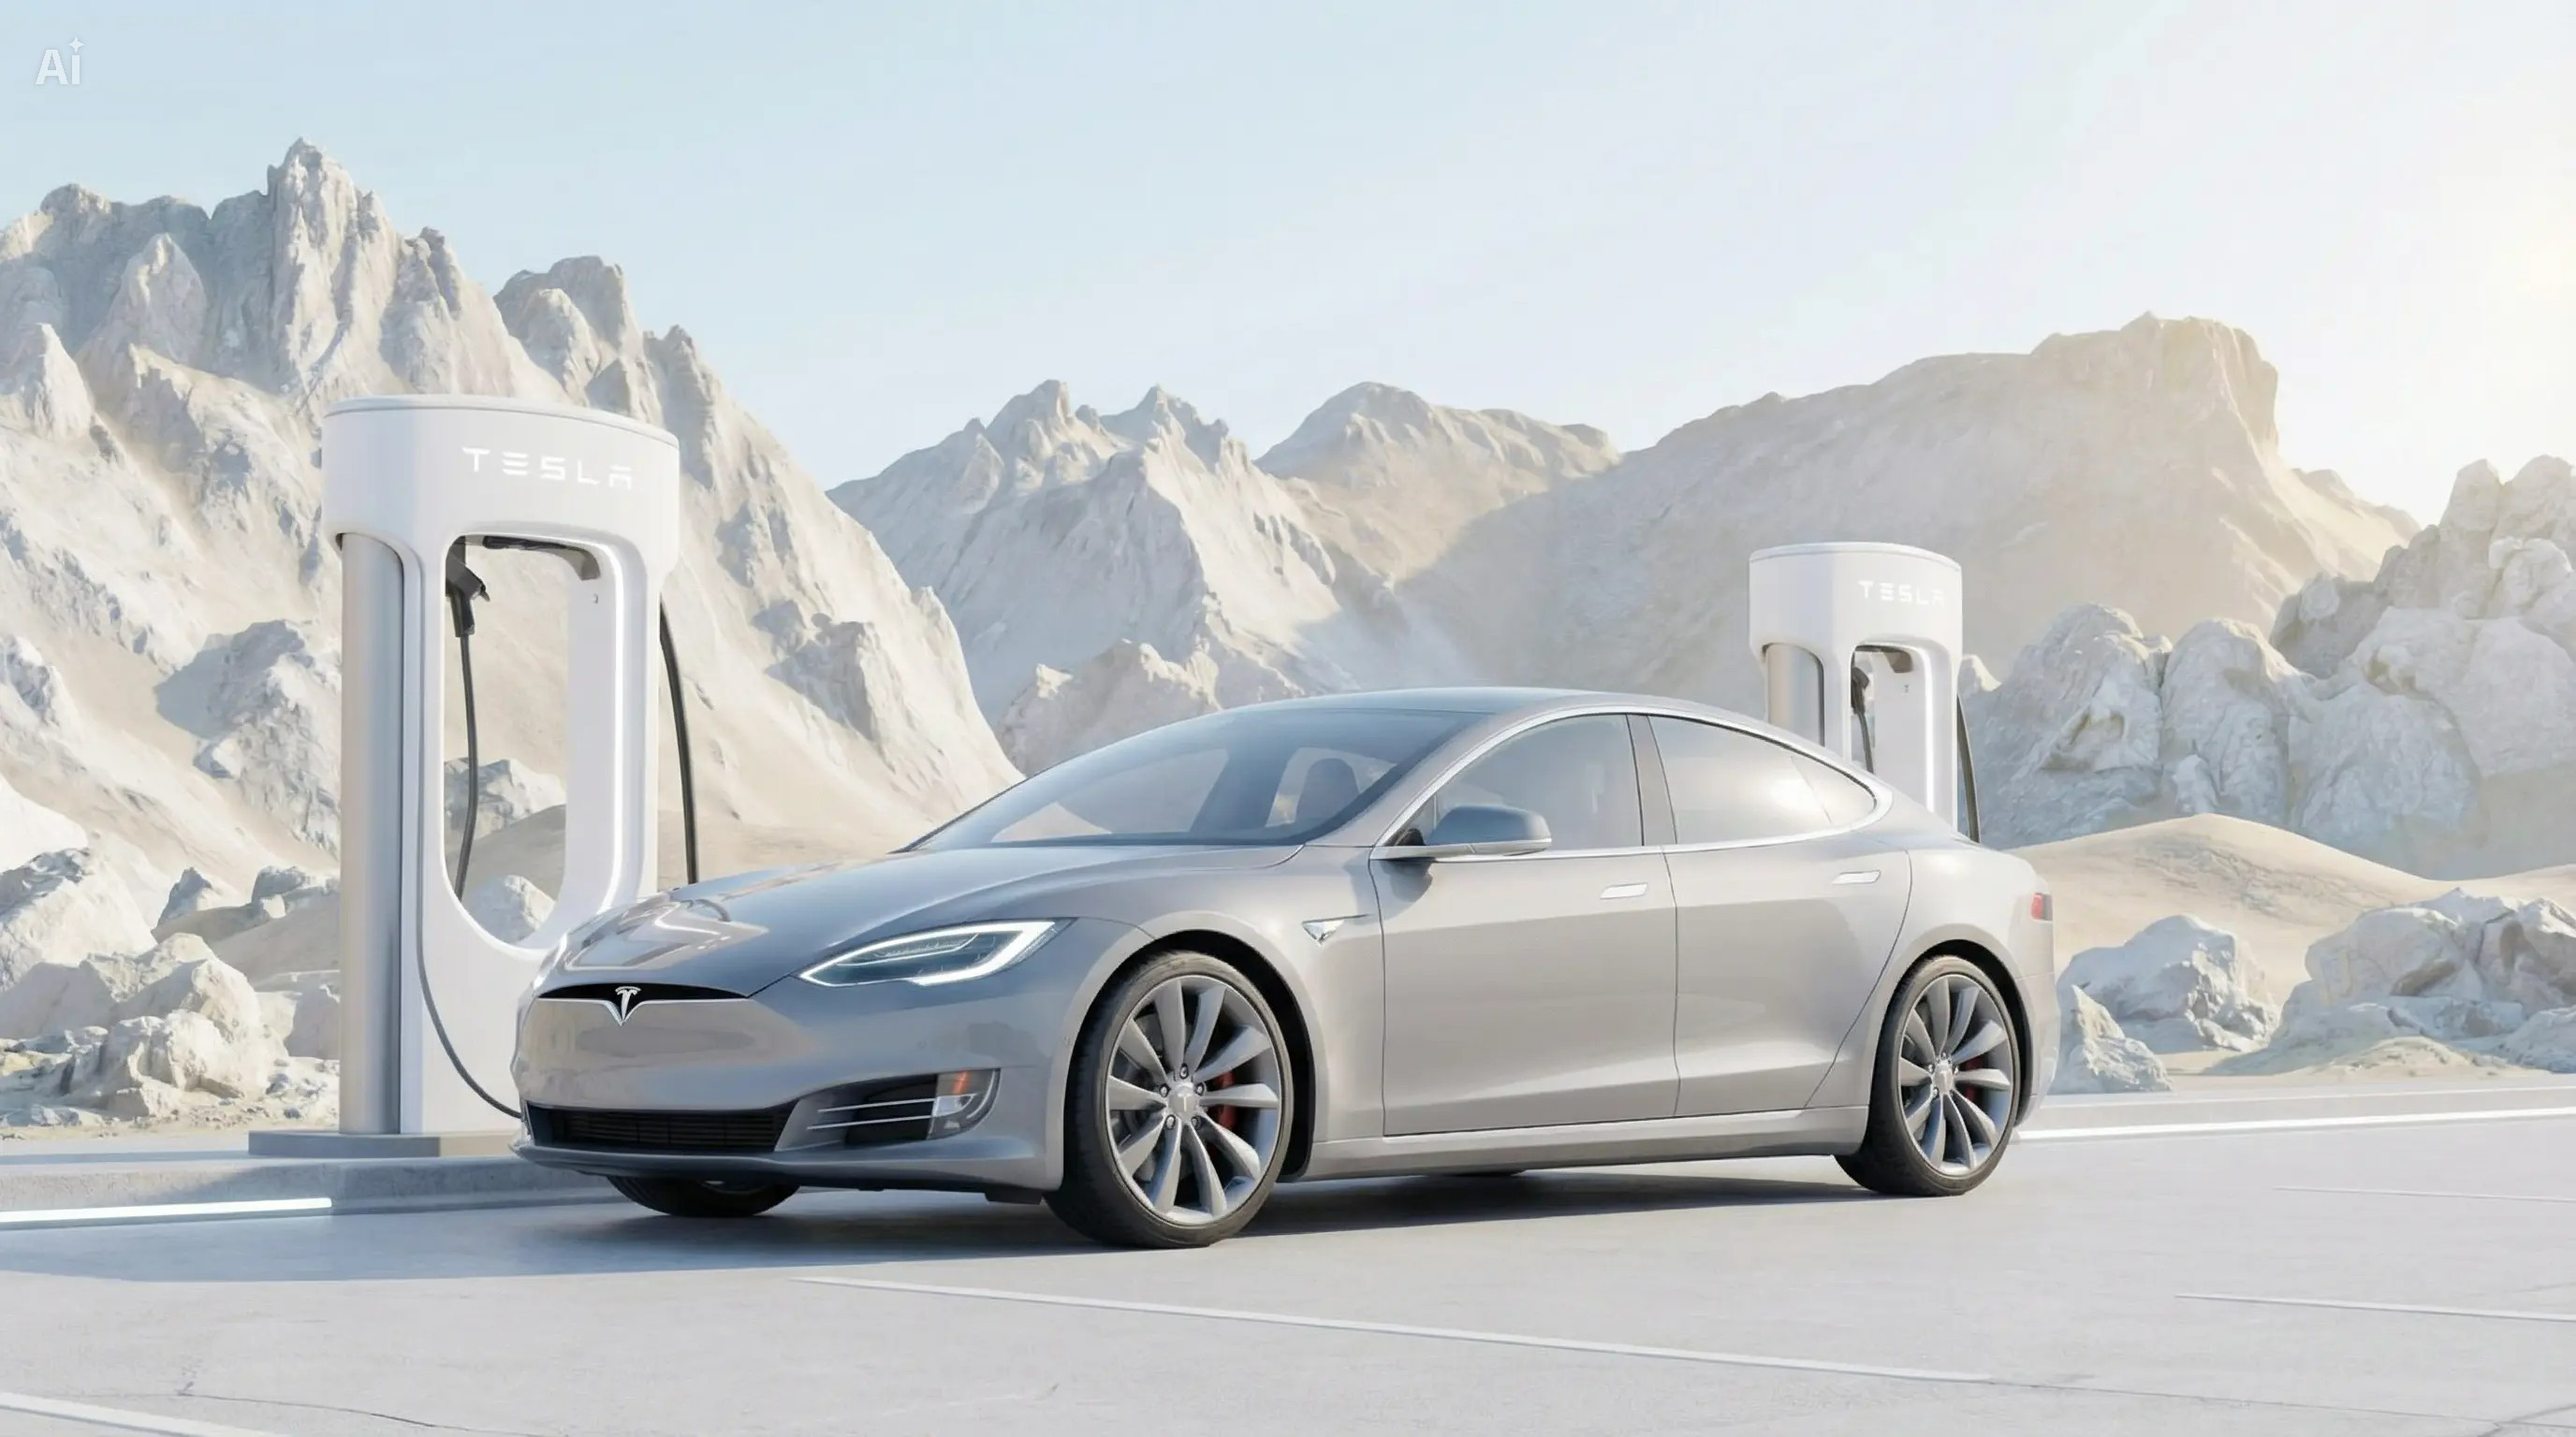
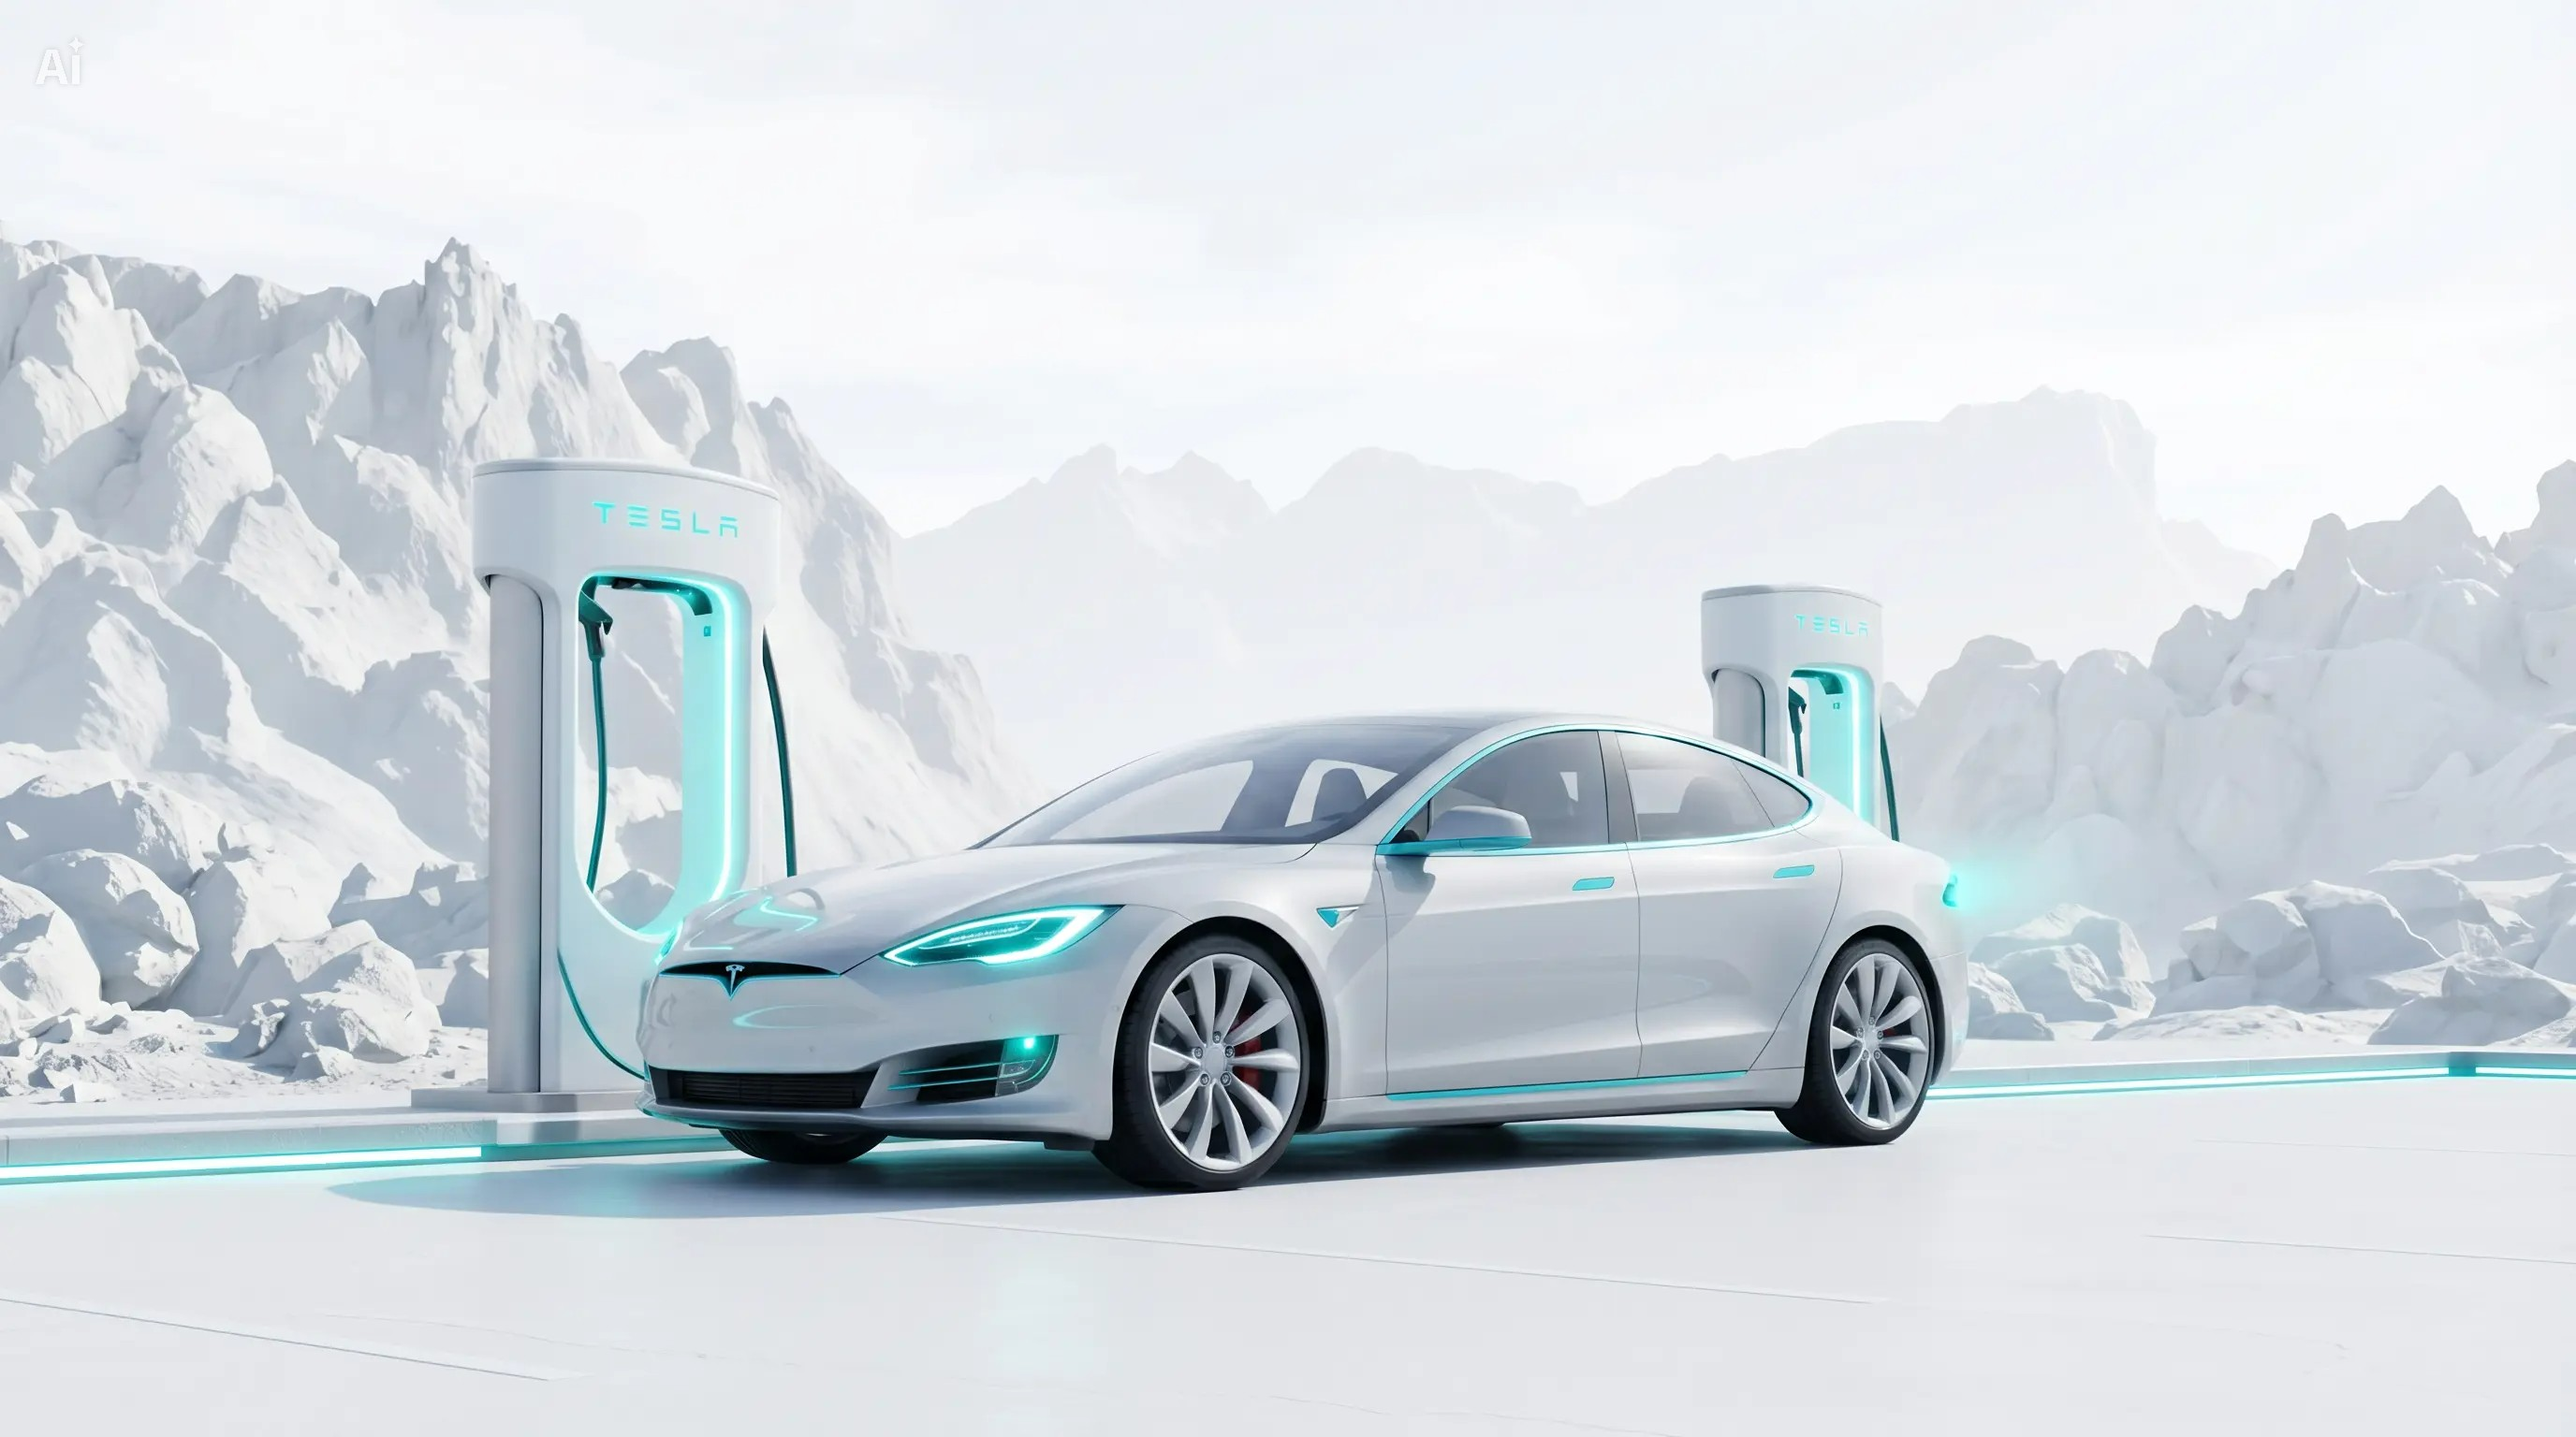
feat: implement database connection, auth controller, and global CSS styles with Tailwind configuration

diff --git a/frontend/src/components/home/Navbar.js b/frontend/src/components/home/Navbar.js
@@ -1,16 +1,32 @@
 import React, { useState, useEffect } from "react";
 import { motion, AnimatePresence } from "framer-motion";
 import { Button } from "../ui/button.js";
-import { Zap, Menu, X, BatteryCharging } from "lucide-react";
+import { Sun, Moon, Zap, Menu, X, BatteryCharging } from "lucide-react";
+import { getStoredTheme, applyTheme } from "../../utils/theme.js";
 
 const Navbar = ({ onReserve }) => {
   const [scrolled, setScrolled] = useState(false);
   const [mobileOpen, setMobileOpen] = useState(false);
+  const [theme, setTheme] = useState(getStoredTheme());
+
+  const toggleTheme = () => {
+    const newTheme = theme === "light" ? "dark" : "light";
+    setTheme(newTheme);
+    applyTheme(newTheme);
+  };
 
   useEffect(() => {
     const handleScroll = () => setScrolled(window.scrollY > 40);
+    
+    // Sync initial state and listen for changes
+    const syncTheme = () => setTheme(getStoredTheme());
+    window.addEventListener("theme-changed", (e) => setTheme(e.detail));
+    
     window.addEventListener("scroll", handleScroll);
-    return () => window.removeEventListener("scroll", handleScroll);
+    return () => {
+      window.removeEventListener("scroll", handleScroll);
+      window.removeEventListener("theme-changed", syncTheme);
+    };
   }, []);
 
   return (
@@ -78,6 +94,31 @@ const Navbar = ({ onReserve }) => {
             <Zap className="w-4 h-4 mr-2" />
             <span className="tracking-widest uppercase text-sm font-semibold">Reserve Now</span>
           </Button>
+
+          {/* Theme Toggle Button */}
+          <motion.button
+            whileHover={{ scale: 1.05 }}
+            whileTap={{ scale: 0.95 }}
+            onClick={toggleTheme}
+            className="relative flex items-center justify-center h-10 w-10 rounded-xl border border-white/10 bg-white/5 backdrop-blur-md hover:bg-white/10 transition-colors shadow-lg overflow-hidden group"
+          >
+            <div className="absolute inset-0 bg-gradient-to-br from-primary/10 to-transparent opacity-0 group-hover:opacity-100 transition-opacity" />
+            <AnimatePresence mode="wait">
+              <motion.div
+                key={theme}
+                initial={{ y: 20, opacity: 0, rotate: 45 }}
+                animate={{ y: 0, opacity: 1, rotate: 0 }}
+                exit={{ y: -20, opacity: 0, rotate: -45 }}
+                transition={{ duration: 0.3, ease: "anticipate" }}
+              >
+                {theme === "light" ? (
+                  <Moon className="h-5 w-5 text-foreground/80" />
+                ) : (
+                  <Sun className="h-5 w-5 text-primary" />
+                )}
+              </motion.div>
+            </AnimatePresence>
+          </motion.button>
         </div>
 
         {/* Mobile menu toggle */}
@@ -129,6 +170,26 @@ const Navbar = ({ onReserve }) => {
             >
               <Zap className="w-4 h-4 mr-2" />
               Reserve Now
+            </Button>
+
+            <Button
+              variant="outline"
+              className="w-full h-12 flex items-center justify-center gap-3 bg-white/5 border-white/10 backdrop-blur-md"
+              onClick={() => {
+                toggleTheme();
+              }}
+            >
+              {theme === "light" ? (
+                <>
+                  <Moon className="h-5 w-5" />
+                  <span className="tracking-widest uppercase text-sm font-semibold">Dark Mode</span>
+                </>
+              ) : (
+                <>
+                  <Sun className="h-5 w-5 text-primary" />
+                  <span className="tracking-widest uppercase text-sm font-semibold">Light Mode</span>
+                </>
+              )}
             </Button>
           </motion.div>
         )}

diff --git a/backend/controllers/authController.js b/backend/controllers/authController.js
@@ -453,7 +453,10 @@ exports.verifyOTP = async (req, res) => {
     const model = vehicle?.model || null;
 
     const result = await pool.query(
-      'SELECT *, EXTRACT(EPOCH FROM (LOCALTIMESTAMP - created_at))/60 AS db_diff_minutes FROM otps WHERE vehicle_id=$1 AND code=$2 AND is_used=false AND expired=false',
+      `SELECT *, 
+       (created_at > NOW() - INTERVAL '5 minutes') as is_fresh
+       FROM otps 
+       WHERE vehicle_id=$1 AND code=$2 AND is_used=false AND expired=false`,
       [vehicleId, code]
     );
 
@@ -462,11 +465,10 @@ exports.verifyOTP = async (req, res) => {
     }
 
     const otp = result.rows[0];
-    const diffMinutes = parseFloat(otp.db_diff_minutes);
 
-    if (diffMinutes > 5) {
+    if (!otp.is_fresh) {
       await pool.query('DELETE FROM otps WHERE id=$1', [otp.id]);
-      return res.status(400).json({ message: `OTP expired (${Math.round(diffMinutes)} minutes ago)` });
+      return res.status(400).json({ message: 'OTP expired' });
     }
 
     await pool.query('DELETE FROM otps WHERE id=$1', [otp.id]);
@@ -487,35 +489,36 @@ exports.verifyForeignOTP = async (req, res) => {
   let targetVehicleId = vehicleId;
 
   try {
-    let otpResult;
-    if (vehicleId) {
-      otpResult = await pool.query(
-        'SELECT *, EXTRACT(EPOCH FROM (LOCALTIMESTAMP - created_at))/60 AS db_diff_minutes FROM otps WHERE vehicle_id=$1 AND code=$2 AND is_used=false AND expired=false',
-        [vehicleId, code]
+    if (!targetVehicleId) {
+      if (!email) {
+        return res.status(400).json({ message: 'vehicleId or email is required' });
+      }
+
+      const emailRes = await pool.query(
+        'SELECT vehicle_id FROM emails WHERE address=$1 LIMIT 1',
+        [email]
       );
-    } else if (email) {
-      // Find latest valid OTP for ANY vehicle associated with this email
-      otpResult = await pool.query(
-        `SELECT o.*, EXTRACT(EPOCH FROM (LOCALTIMESTAMP - o.created_at))/60 AS db_diff_minutes 
-         FROM otps o 
-         JOIN emails e ON o.vehicle_id = e.vehicle_id 
-         WHERE e.address = $1 AND o.code = $2 AND o.is_used = false AND o.expired = false
-         ORDER BY o.created_at DESC LIMIT 1`,
-        [email, code]
-      );
-    } else {
-      return res.status(400).json({ message: 'vehicleId or email is required' });
+      if (emailRes.rows.length === 0) {
+        return res.status(404).json({ message: 'Vehicle not found for the given email' });
+      }
+      targetVehicleId = emailRes.rows[0].vehicle_id;
     }
+
+    const otpResult = await pool.query(
+      `SELECT *, 
+       (created_at > NOW() - INTERVAL '5 minutes') as is_fresh
+       FROM otps 
+       WHERE vehicle_id=$1 AND code=$2 AND is_used=false AND expired=false`,
+      [targetVehicleId, code]
+    );
 
     if (otpResult.rows.length === 0) {
       return res.status(400).json({ message: 'Invalid or already used OTP' });
     }
 
     const otp = otpResult.rows[0];
-    targetVehicleId = otp.vehicle_id; // Update targetVehicleId from the found OTP
-    const diffMinutes = parseFloat(otp.db_diff_minutes);
 
-    if (diffMinutes > 5) {
+    if (!otp.is_fresh) {
       await pool.query('DELETE FROM otps WHERE id=$1', [otp.id]);
 
       // Delete temporary foreign vehicle if OTP expired and it is not yet verified
@@ -524,7 +527,7 @@ exports.verifyForeignOTP = async (req, res) => {
         await pool.query('DELETE FROM vehicles WHERE id=$1', [targetVehicleId]);
       }
 
-      return res.status(400).json({ message: `OTP expired (${Math.round(diffMinutes)} minutes ago)` });
+      return res.status(400).json({ message: 'OTP expired' });
     }
 
     await pool.query('UPDATE otps SET is_used=true WHERE id=$1', [otp.id]);

diff --git a/frontend/src/components/home/HeroSection.js b/frontend/src/components/home/HeroSection.js
@@ -37,14 +37,27 @@ const HeroSection = ({ onReserve }) => {
             <img
             src={theme === 'light' ? lightHeroImage : darkHeroImage}
             alt="Tesla charging at a futuristic station"
-            className="h-full w-full object-cover"
+            className={`h-full w-full object-cover transition-all duration-700 ${
+                theme === "light" 
+                ? "brightness-[0.95] contrast-[1.1] saturate-[1.1] mix-blend-normal" 
+                : "brightness-75 contrast-[1.1] saturate-[1.1]"
+            }`}
             width={1920}
             height={1080}
             />
         </motion.div>
-        <div className="absolute inset-0 bg-[radial-gradient(circle_at_center,rgba(0,255,240,0.1)_0%,rgba(0,0,0,0.4)_40%,rgba(0,0,0,0.9)_100%)]" />
-        <div className="absolute inset-0 bg-gradient-to-b from-background/30 via-background/60 to-background" />
+        <div className={`absolute inset-0 transition-opacity duration-700 ${
+            theme === 'light'
+            ? 'bg-[radial-gradient(circle_at_center,rgba(0,0,0,0.02)_0%,rgba(0,0,0,0.08)_40%,rgba(0,0,0,0.2)_100%)]'
+            : 'bg-[radial-gradient(circle_at_center,rgba(0,255,240,0.1)_0%,rgba(0,0,0,0.4)_40%,rgba(0,0,0,0.9)_100%)]'
+        }`} />
+        <div className={`absolute inset-0 bg-gradient-to-b transition-all duration-700 ${
+            theme === 'light'
+            ? 'from-black/10 via-background/10 to-background/95'
+            : 'from-background/30 via-background/60 to-background'
+        }`} />
         <div className="absolute inset-0 bg-grid-pattern opacity-[0.1]" />
+
         
         {/* Animated Particles */}
         <motion.div 
@@ -83,7 +96,7 @@ const HeroSection = ({ onReserve }) => {
           </p>
 
           <h1 className="font-display text-7xl font-extrabold leading-[0.82] tracking-tight text-foreground sm:text-8xl lg:text-[9rem]">
-            <span className="block text-white/95 drop-shadow-[0_0_30px_rgba(255,255,255,0.2)]">POWER</span>
+            <span className={`block transition-colors duration-700 ${theme === 'light' ? 'text-foreground' : 'text-white/95'} drop-shadow-[0_0_30px_rgba(255,255,255,0.2)]`}>POWER</span>
             <span className="block text-gradient-cyan glow-text mt-2">UNLIMITED</span>
           </h1>
 

diff --git a/frontend/src/index.css b/frontend/src/index.css
@@ -127,11 +127,12 @@
     inset: 0;
     pointer-events: none;
     background:
-      linear-gradient(90deg, rgba(255, 255, 255, 0.03) 1px, transparent 1px),
-      linear-gradient(rgba(255, 255, 255, 0.03) 1px, transparent 1px);
+      linear-gradient(90deg, currentColor 1px, transparent 1px),
+      linear-gradient(currentColor 1px, transparent 1px);
     background-size: 72px 72px;
     mask-image: radial-gradient(circle at center, black 34%, transparent 88%);
-    opacity: 0.24;
+    opacity: 0.05;
+    color: inherit;
   }
 
   #root {
@@ -206,8 +207,13 @@
 
   .bg-grid-pattern {
     background-image:
-      linear-gradient(hsla(0 0% 100% / 0.05) 1px, transparent 1px),
-      linear-gradient(90deg, hsla(0 0% 100% / 0.05) 1px, transparent 1px);
+      linear-gradient(currentColor 1px, transparent 1px),
+      linear-gradient(90deg, currentColor 1px, transparent 1px);
     background-size: 64px 64px;
+    color: hsla(0 0% 100% / 0.05);
+  }
+
+  :root[data-theme="light"] .bg-grid-pattern {
+    color: hsla(240 15% 10% / 0.05);
   }
 }

diff --git a/backend/config/db.js b/backend/config/db.js
@@ -6,8 +6,12 @@ const pool = new Pool({
     ssl: { rejectUnauthorized: false },
 });
 
+pool.on('error', (err) => {
+    console.error('Unexpected error on idle client', err);
+});
+
 pool.connect()
     .then(() => console.log('Connected to Supabase database!'))
     .catch(err => console.error('Connection error', err));
 
-module.exports = pool;
+module.exports = pool;
